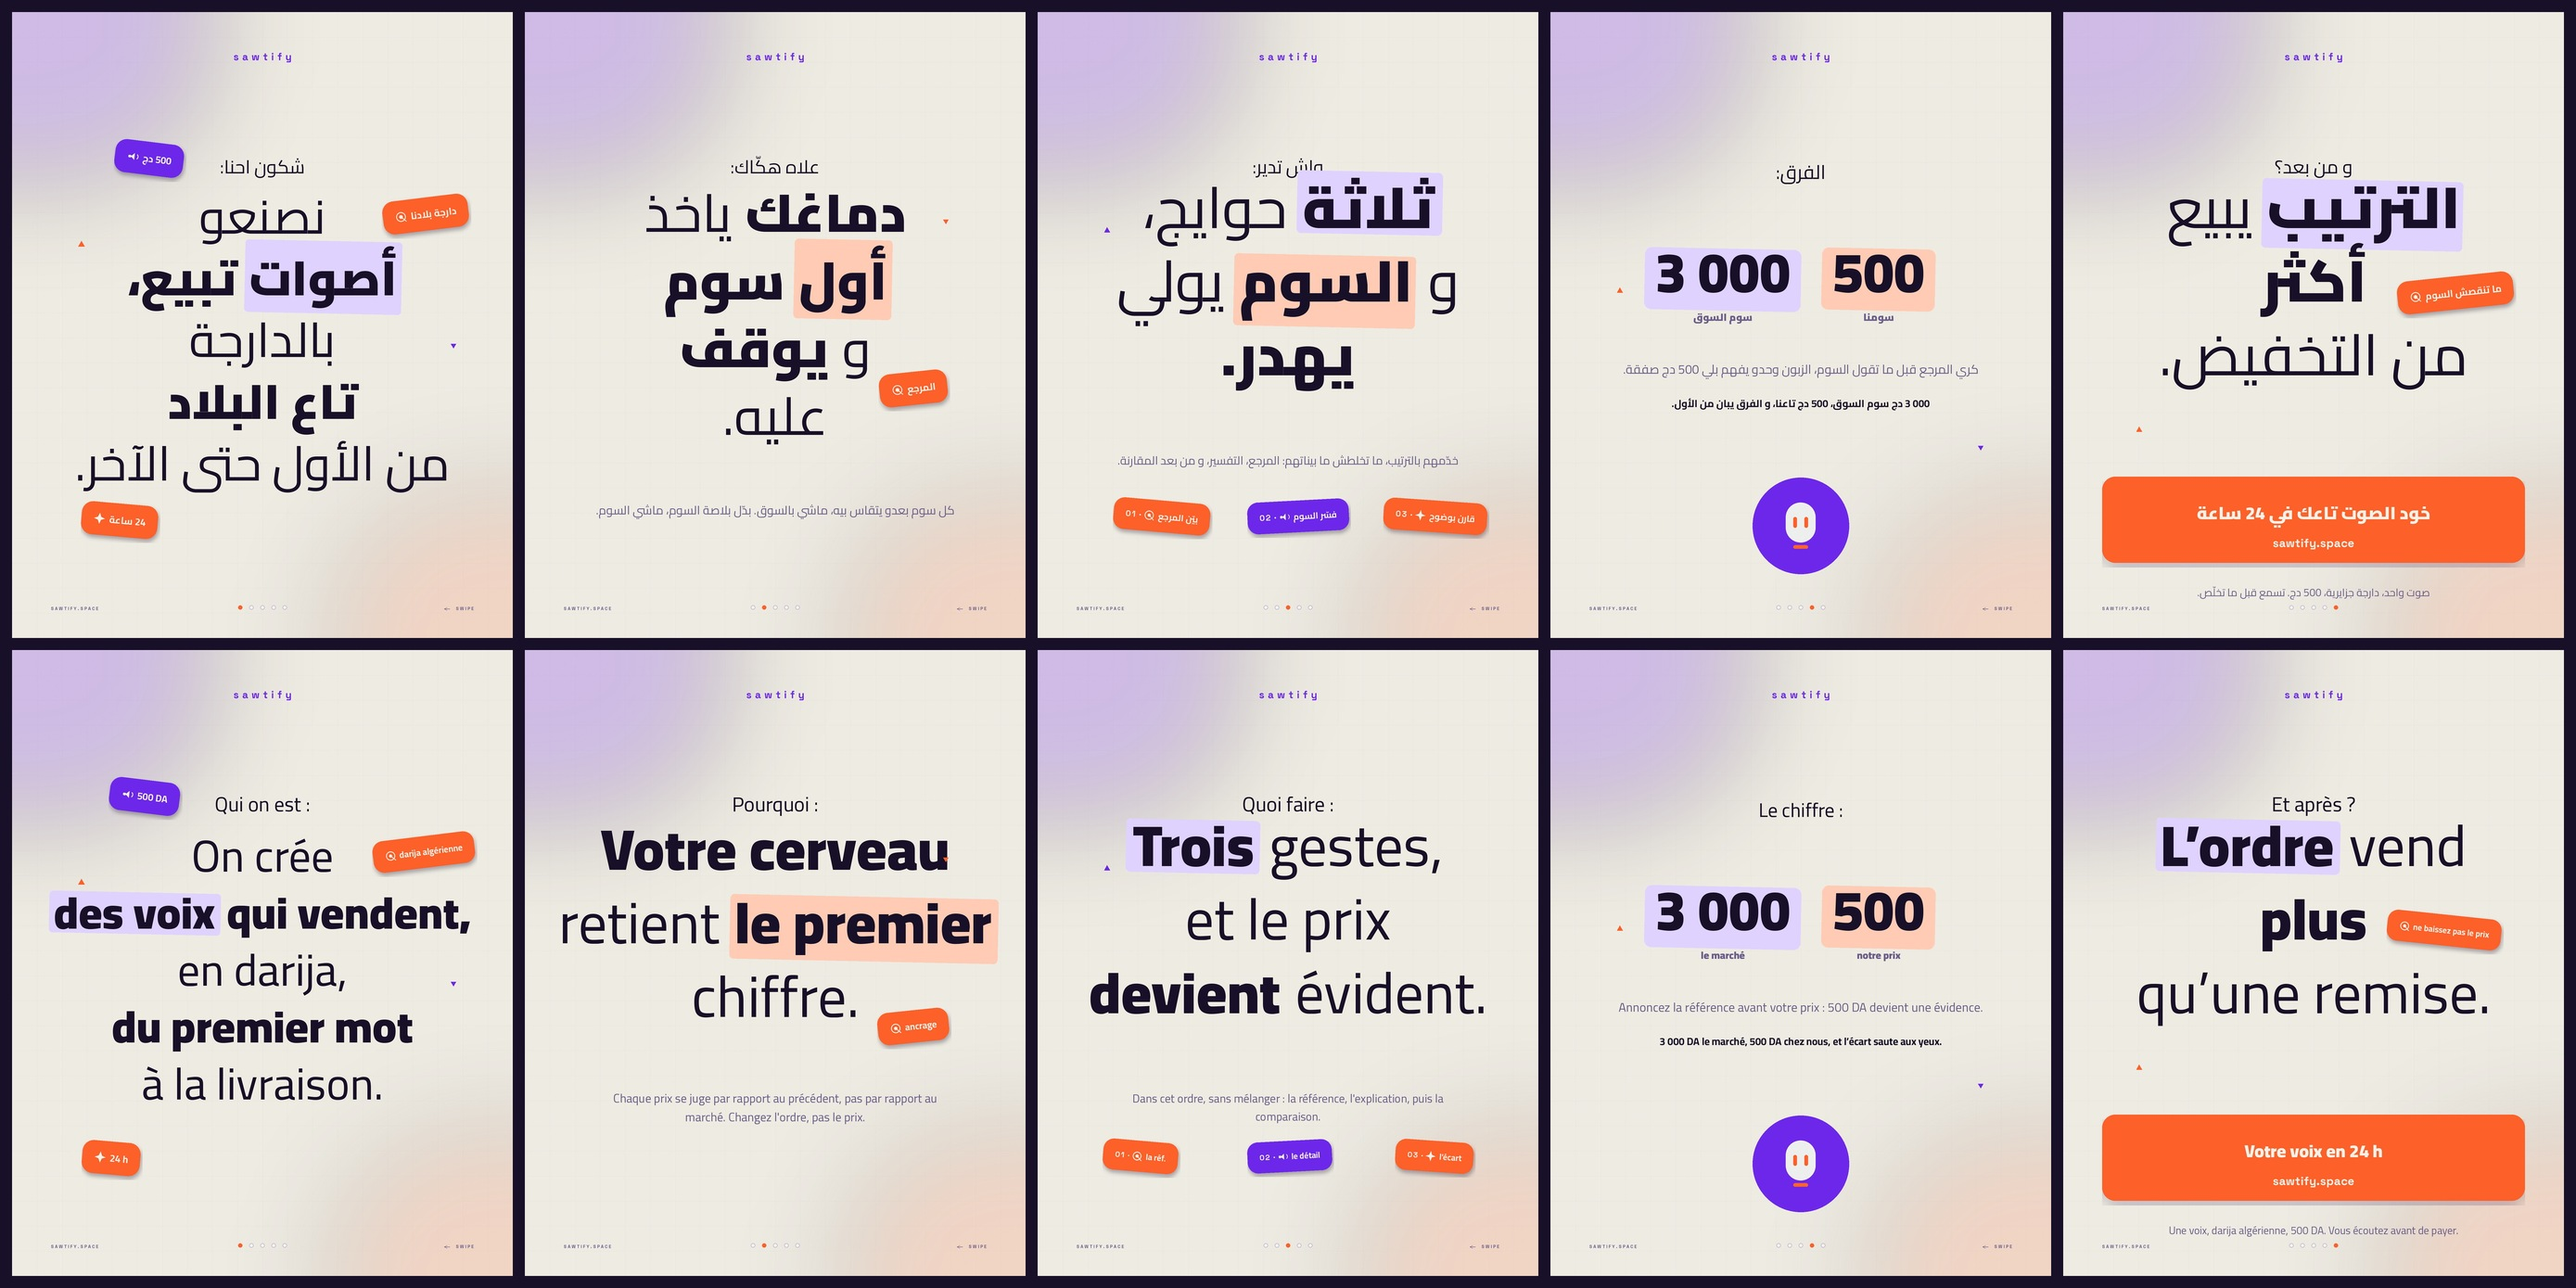
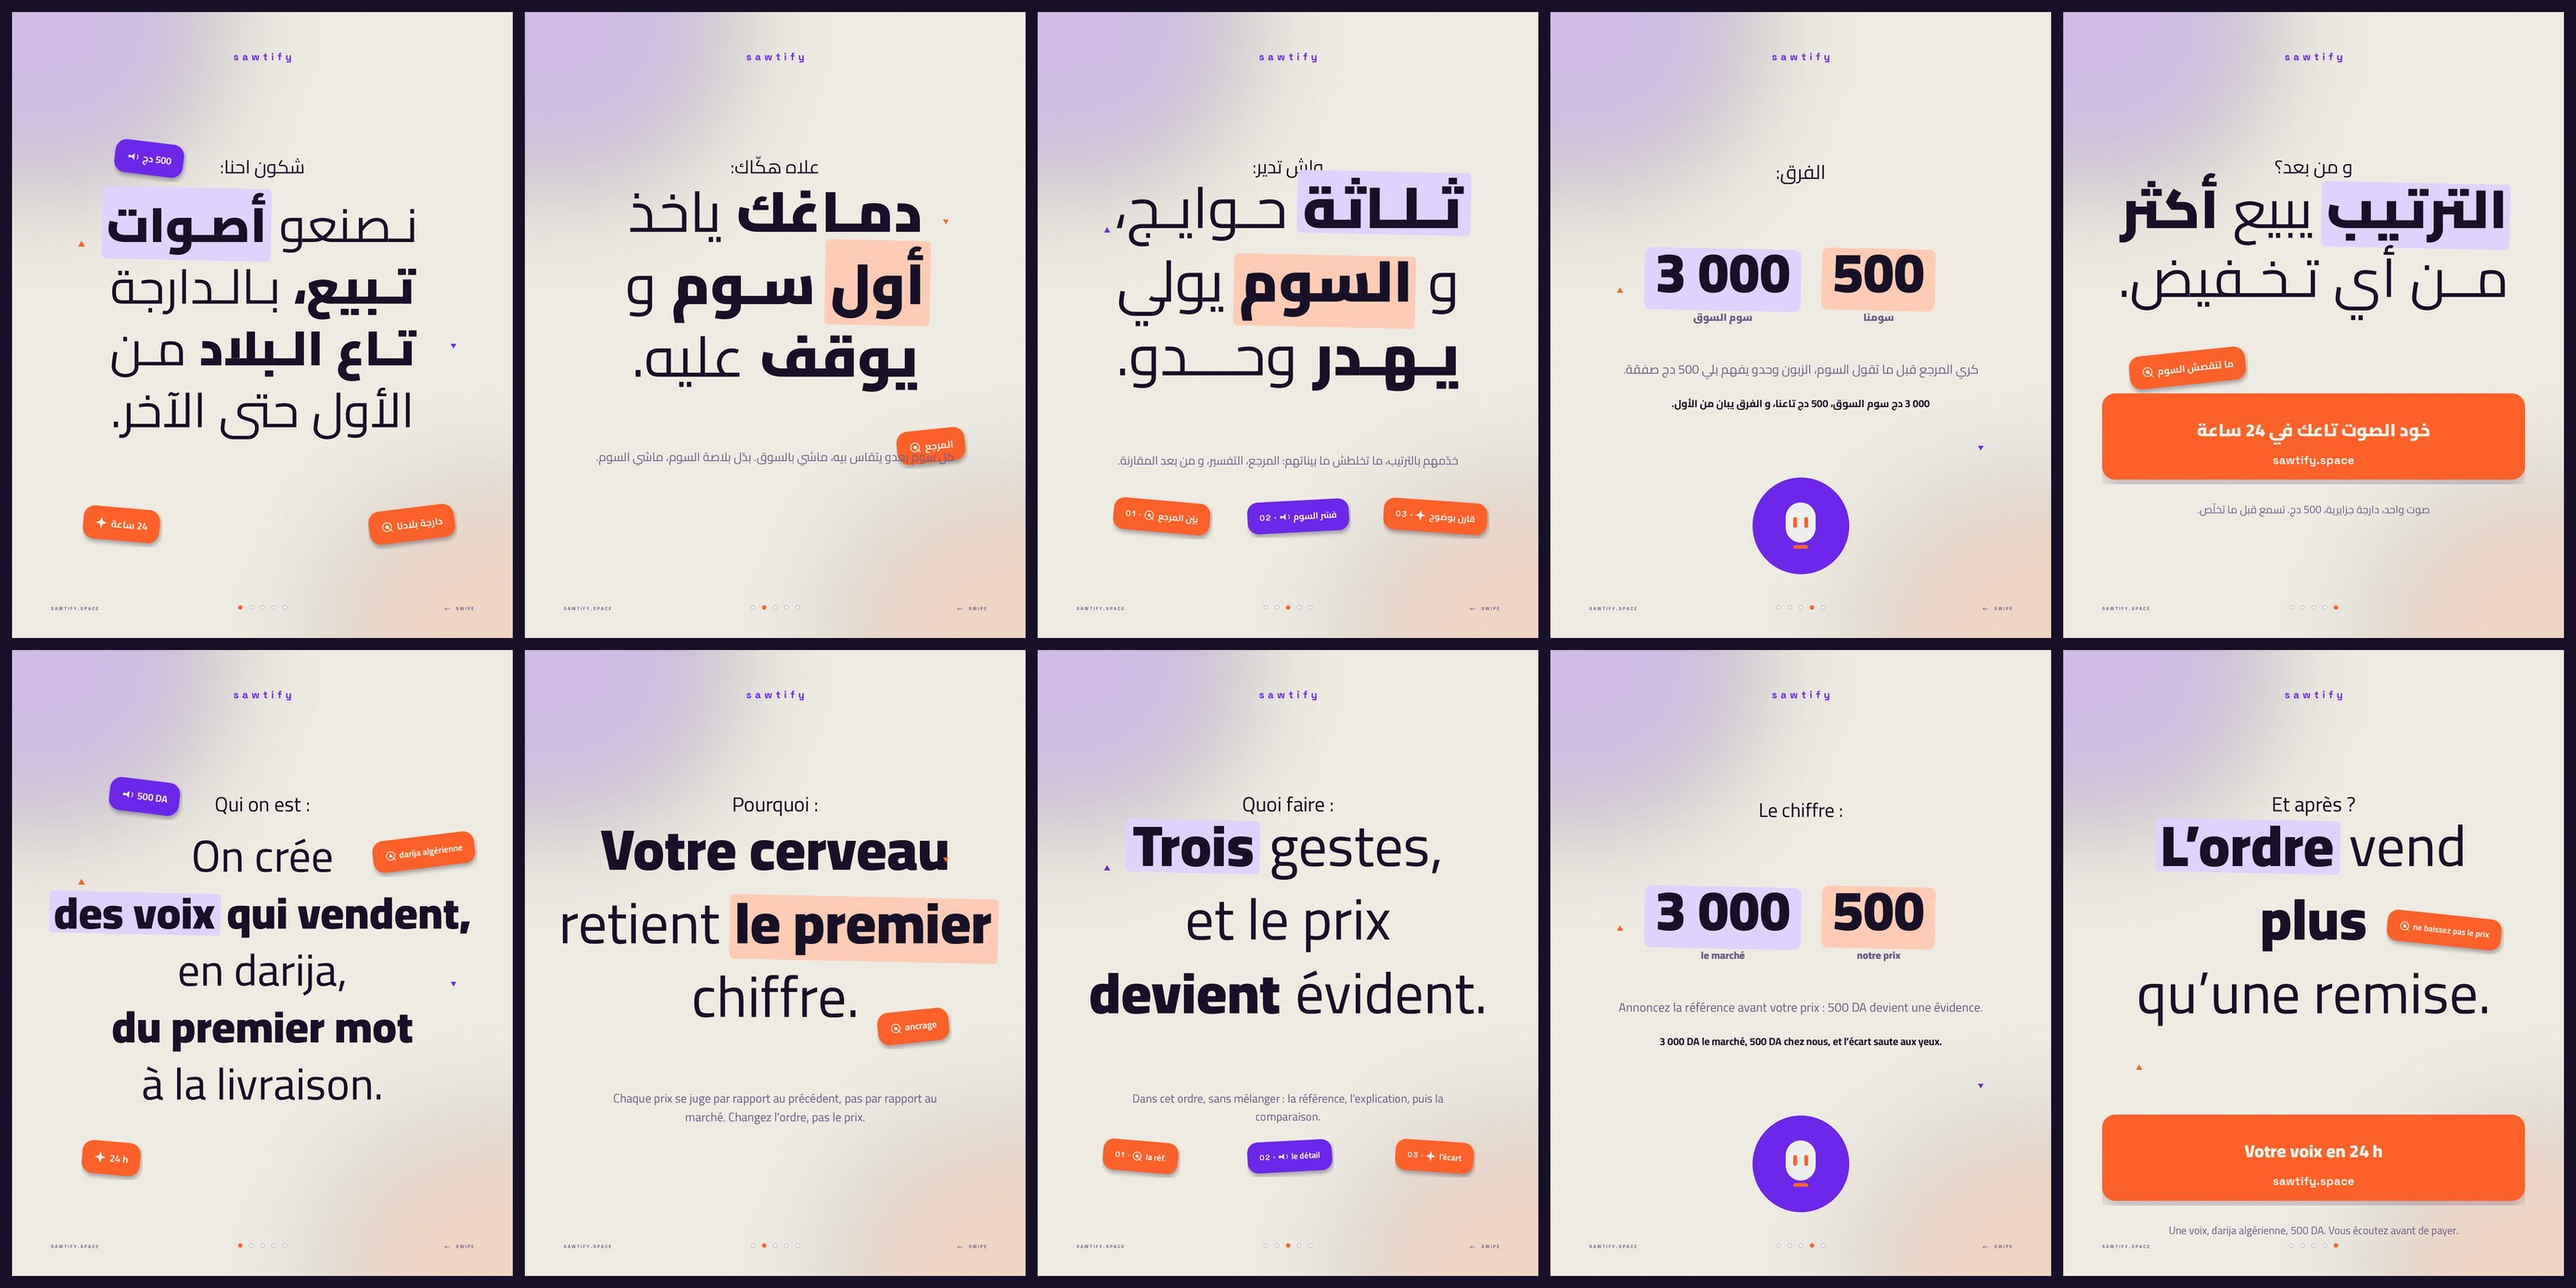
feat(lettre): justification arabe au tatweel — lignes de titre de largeur égale

diff --git a/marketing/instagram/slides/lettre/index.html b/marketing/instagram/slides/lettre/index.html
@@ -30,7 +30,7 @@
 <main>
 <section>
  <h2><span class="tag">darija</span> ما تشريش السوم، بدّل الترتيب · 01 → 05</h2>
- <p class="desc">Papier clair, halo violet, wordmark centré, surligneurs pastel, stickers pilules orientés,
+ <p class="desc">Papier clair, halo violet, wordmark centré, surligneurs pastel, stickers pilules orientés, lignes de titre justifiées au tatweel (même largeur),
   pagination en cercles. Un seul message par slide, CTA hors zone des masques Instagram.</p>
  <div class="row">
   <figure><img src="dz/01.jpg" alt=""><figcaption>dz 01 · couverture</figcaption></figure>

diff --git a/marketing/instagram/slides/lettre/voir.html b/marketing/instagram/slides/lettre/voir.html
@@ -30,7 +30,7 @@
 <main>
 <section>
  <h2><span class="tag">darija</span> ما تشريش السوم، بدّل الترتيب · 01 → 05</h2>
- <p class="desc">Papier clair, halo violet, wordmark centré, surligneurs pastel, stickers pilules orientés,
+ <p class="desc">Papier clair, halo violet, wordmark centré, surligneurs pastel, stickers pilules orientés, lignes de titre justifiées au tatweel (même largeur),
   pagination en cercles. Un seul message par slide, CTA hors zone des masques Instagram.</p>
  <div class="row">
   <figure><img src="dz/01.jpg" alt=""><figcaption>dz 01 · couverture</figcaption></figure>

diff --git a/marketing/instagram/lettre.py b/marketing/instagram/lettre.py
@@ -175,6 +175,73 @@ def para(base, text, cx, y, size, fill=MUT, name=REG, max_w=780, leading=1.55):
     return tk.paragraph(base, text, cx, y, size, fill, name, max_w, leading)
 
 
+# ── justification arabe (tatweel) ─────────────────────────────────────────
+TATWEEL = "\u0640"
+DUAL = set("بپتثجچحخسشصضطظعغفقكکگلمنهيىئس")
+
+
+def _is_ar(ch):
+    return "\u0600" <= ch <= "\u06FF"
+
+
+def _tat_slots(tok):
+    """Positions où le tatweel se soude vraiment (après une lettre double)."""
+    out = []
+    for i in range(len(tok) - 1):
+        if tok[i] in DUAL and _is_ar(tok[i + 1]):
+            out.append(i)
+    return out
+
+
+def _tat(tok, k, slots=None):
+    """Insère k tatweels répartis sur les points de soudure."""
+    slots = _tat_slots(tok) if slots is None else slots
+    if not slots or k <= 0:
+        return tok
+    per = [k // len(slots)] * len(slots)
+    for j in range(k % len(slots)):
+        per[j] += 1
+    out, si = "", 0
+    for i, ch in enumerate(tok):
+        out += ch
+        if i < len(tok) - 1 and tok[i] in DUAL and _is_ar(tok[i + 1]):
+            out += TATWEEL * per[si]
+            si += 1
+    return out
+
+
+def justify(tokens, size, target, gapk=0.26, cap=4, gapmax=0.30):
+    """Égalise la ligne : tatweel d'abord (kashida), puis l'interlettrage."""
+    toks = list(tokens)
+    names = [WEIGHT[w] for _, w, _ in toks]
+    base = [t for t, _, _ in toks]
+    slots = [_tat_slots(t) for t in base]
+    n_gap = max(len(toks) - 1, 1)
+    gap0 = size * gapk
+    ws = [twidth(t, n, size) for t, n in zip(base, names)]
+    natural = sum(ws) + gap0 * (len(toks) - 1)
+    extra = target - natural
+    if extra <= 1:
+        return toks, gap0
+
+    ks = [0] * len(toks)
+    rest = extra
+    guard = 0
+    while rest > 2 and guard < 300:
+        guard += 1
+        cand = [i for i in range(len(toks)) if ks[i] < cap and slots[i]]
+        if not cand:
+            break
+        i = min(cand, key=lambda i: (ks[i], -ws[i]))
+        ks[i] += 1
+        nw = twidth(_tat(base[i], ks[i], slots[i]), names[i], size)
+        rest -= nw - ws[i]
+        ws[i] = nw
+    add = min(max(rest, 0) / n_gap, size * gapmax) if len(toks) > 1 else 0.0
+    return [(_tat(base[i], ks[i], slots[i]), toks[i][1], toks[i][2])
+            for i in range(len(toks))], gap0 + add
+
+
 # ── stickers ──────────────────────────────────────────────────────────────
 def _icon(kind, size, color):
     im = Image.new("RGBA", (size, size), (0, 0, 0, 0))
@@ -306,14 +373,24 @@ def build(spec, seed, rtl=True):
     while line_w(size) > 936 and size > 56:
         size -= 2
     # remplit la hauteur quand les lignes sont courtes
-    while size < 124:
+    cap = spec.get("maxsize", 124)
+    while size < cap:
         h = (len(spec["lines"]) - 1) * size * 1.28 + size * 1.1
-        if h >= 560 or line_w(size + 4) > 936:
+        if h >= 560 or line_w(size + 4) > 936 or size + 4 > cap:
             break
         size += 4
     lead = size * spec.get("lead", 1.28)
-    for tokens in spec["lines"]:
-        hline(base, tokens, W / 2, y, size, rtl=rtl)
+    lines = [list(map(tuple, toks)) for toks in spec["lines"]]
+    gaps = [size * 0.26] * len(lines)
+    if rtl and spec.get("justify", True) and len(lines) > 1:
+        w_of = [sum(twidth(t, WEIGHT[w], size) for t, w, _ in toks)
+                + size * 0.26 * (len(toks) - 1) for toks in lines]
+        target = min(max(w_of), 936)
+        out = [justify(toks, size, target) for toks in lines]
+        lines = [t for t, _ in out]
+        gaps = [g for _, g in out]
+    for tokens, gp in zip(lines, gaps):
+        hline(base, tokens, W / 2, y, size, rtl=rtl, gap=gp)
         y += lead
     for st in spec.get("stickers", ()):
         sticker(base, st["text"], st["x"], st["y"], st.get("rot", -6),
@@ -409,19 +486,19 @@ def cta(p):
 DZ = {
     "id": "dz", "n": 5, "seed": 11, "rtl": True,
     "s1": {
-        "kicker": "شكون احنا:", "size": 104,
+        "kicker": "شكون احنا:", "size": 104, "maxsize": 106, "kgap": 148,
         "lines": [
-            [("نصنعو", "r", None)],
-            [("أصوات", "b", "v"), ("تبيع،", "b", None)],
-            [("بالدارجة", "r", None)],
-            [("تاع البلاد", "b", None)],
-            [("من الأول حتى الآخر.", "r", None)],
+            [("نصنعو", "r", None), ("أصوات", "b", "v")],
+            [("تبيع،", "b", None), ("بالدارجة", "r", None)],
+            [("تاع", "b", None), ("البلاد", "b", None), ("من", "r", None)],
+            [("الأول", "r", None), ("حتى", "r", None),
+             ("الآخر.", "r", None)],
         ],
         "stickers": [
             dict(text="500 دج", x=296, y=316, rot=-7, fill=VIO, icon="sound"),
-            dict(text="دارجة بلادنا", x=892, y=436, rot=7, fill=ORANGE,
+            dict(text="دارجة بلادنا", x=862, y=1105, rot=7, fill=ORANGE,
                  icon="target"),
-            dict(text="24 ساعة", x=232, y=1096, rot=-5, fill=ORANGE,
+            dict(text="24 ساعة", x=236, y=1105, rot=-5, fill=ORANGE,
                  icon="spark"),
         ],
         "marks": [(150, 500, 20, 180, ORANGE), (952, 720, 16, 0, VIO)],
@@ -430,12 +507,11 @@ DZ = {
         "kicker": "علاه هكّاك:", "size": 106, "kgap": 126,
         "lines": [
             [("دماغك", "b", None), ("ياخذ", "r", None)],
-            [("أول", "b", "o"), ("سوم", "b", None)],
-            [("و", "r", None), ("يوقف", "b", None)],
-            [("عليه.", "r", None)],
+            [("أول", "b", "o"), ("سوم", "b", None), ("و", "r", None)],
+            [("يوقف", "b", None), ("عليه.", "r", None)],
         ],
         "stickers": [
-            dict(text="المرجع", x=838, y=812, rot=6, fill=ORANGE,
+            dict(text="المرجع", x=876, y=1052, rot=6, fill=ORANGE,
                  icon="target"),
         ],
         "marks": [(908, 452, 16, 0, ORANGE)],
@@ -447,7 +523,7 @@ DZ = {
         "lines": [
             [("ثلاثة", "b", "v"), ("حوايج،", "r", None)],
             [("و", "r", None), ("السوم", "b", "o"), ("يولي", "r", None)],
-            [("يهدر.", "b", None)],
+            [("يهدر", "b", None), ("وحدو.", "r", None)],
         ],
         "stickers": [
             dict(text="بيّن المرجع", num="01", x=268, y=1088, rot=-5, fill=ORANGE,
@@ -470,14 +546,13 @@ DZ = {
         "note": "3 000 دج سوم السوق، 500 دج تاعنا، و الفرق يبان من الأول.",
     },
     "s5": {
-        "kicker": "و من بعد؟", "size": 92, "kgap": 118,
+        "kicker": "و من بعد؟", "size": 92, "kgap": 118, "maxsize": 118,
         "lines": [
-            [("الترتيب", "b", "v"), ("يبيع", "r", None)],
-            [("أكثر", "b", None)],
-            [("من التخفيض.", "r", None)],
+            [("الترتيب", "b", "v"), ("يبيع", "r", None), ("أكثر", "b", None)],
+            [("من", "r", None), ("أي", "r", None), ("تخفيض.", "r", None)],
         ],
         "stickers": [
-            dict(text="ما تنقصش السوم", x=846, y=606, rot=6, fill=ORANGE,
+            dict(text="ما تنقصش السوم", x=268, y=768, rot=6, fill=ORANGE,
                  icon="target"),
         ],
         "marks": [(164, 900, 18, 180, ORANGE)],
